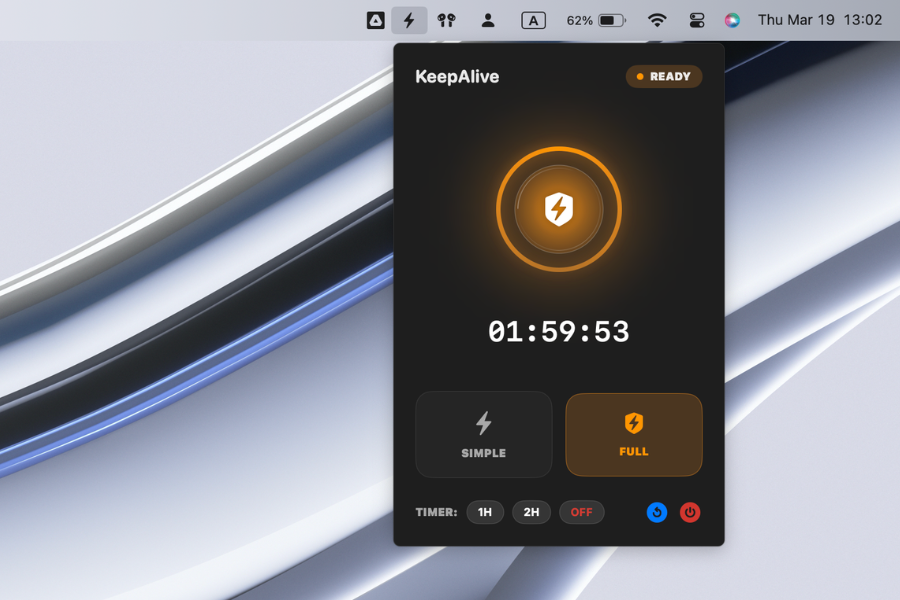
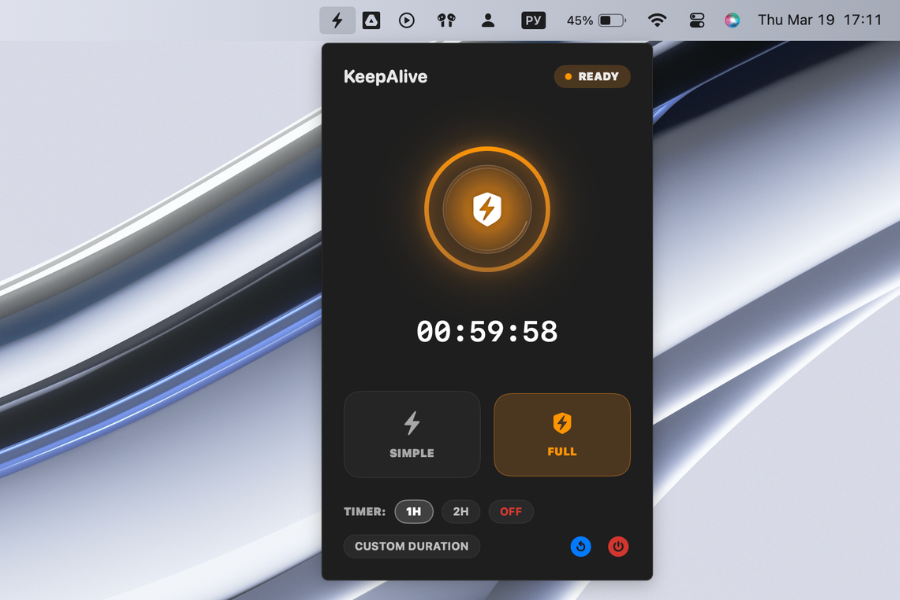
feat(ui): implement custom duration picker and refine layout
- Added expandable custom timer for precise control (H/M)
- Reorganized Timer and Power controls into a balanced 2-row layout
- Enhanced "SET" button with vibrant blue styling and active state glow
- Fixed "1H/2H" button text cropping by optimizing element spacing
- Modified KeepAliveManager to call pmset only when Full Mode is involved
- Updated README.md screenshots and fixed minor typos

Changed region(s): [[0.3422, 0.0, 0.8089, 0.99], [0.56, 0.0, 0.6533, 0.06], [0.9644, 0.03, 0.9956, 0.06]]

diff --git a/MenuView.swift b/MenuView.swift
@@ -4,14 +4,19 @@ struct MenuView: View {
     @ObservedObject var manager: KeepAliveManager
     @State private var isGlowing = false
     @State private var orbRotation = 0.0
+    @State private var showCustomPicker = false
+    @State private var customHours = 0
+    @State private var customMinutes = 0
     
     var body: some View {
         VStack(spacing: 0) {
-            // MARK: - Header
+            // ... (rest of header remains the same)
+            
+            // Header
             HStack {
                 Text("KeepAlive")
                     .font(.system(size: 16, weight: .bold, design: .rounded))
-                    .foregroundStyle(.white.opacity(0.9)) // Brighter header
+                    .foregroundStyle(.white.opacity(0.9))
                 Spacer()
                 statusBadge
             }
@@ -20,11 +25,12 @@ struct MenuView: View {
             
             Spacer(minLength: 30)
             
+            // ... (Orb area remains same)
             // MARK: - Central Status Orb & Timer
             ZStack {
                 // Background Glow
                 Circle()
-                    .fill(currentThemeColor.opacity(0.2)) // Slightly more glow
+                    .fill(currentThemeColor.opacity(0.2))
                     .frame(width: 140, height: 140)
                     .blur(radius: 20)
                     .scaleEffect(isGlowing ? 1.2 : 0.9)
@@ -32,7 +38,7 @@ struct MenuView: View {
                 // Outer Progress Ring (Timer)
                 if let remaining = manager.timerRemaining, let total = totalTimerDuration {
                     Circle()
-                        .stroke(.white.opacity(0.1), lineWidth: 4) // More visible track
+                        .stroke(.white.opacity(0.1), lineWidth: 4)
                         .frame(width: 110, height: 110)
                     
                     Circle()
@@ -90,12 +96,12 @@ struct MenuView: View {
             // MARK: - Digital Time Display
             if let remaining = manager.timerRemaining {
                 Text(formatDuration(remaining))
-                    .font(.system(size: 26, weight: .semibold, design: .monospaced)) // Bolder and larger
+                    .font(.system(size: 26, weight: .semibold, design: .monospaced))
                     .foregroundStyle(.white)
                     .padding(.top, 15)
             } else {
                 Text(manager.currentMode == .off ? "STANDBY" : "ACTIVE")
-                    .font(.system(size: 14, weight: .heavy, design: .monospaced)) // Heavier
+                    .font(.system(size: 14, weight: .heavy, design: .monospaced))
                     .foregroundStyle(currentThemeColor)
                     .padding(.top, 15)
                     .tracking(4)
@@ -125,48 +131,121 @@ struct MenuView: View {
             }
             .padding(.horizontal, 20)
             
+            // MARK: - Custom Timer Controls (Expandable)
+            if showCustomPicker {
+                HStack(spacing: 15) {
+                    CustomStepper(value: $customHours, range: 0...24, label: "hr")
+                    CustomStepper(value: $customMinutes, range: 0...59, label: "min")
+                    
+                    Button(action: {
+                        let totalSeconds = Double(customHours * 3600 + customMinutes * 60)
+                        if totalSeconds > 0 {
+                            manager.selectDuration(totalSeconds)
+                            withAnimation { showCustomPicker = false }
+                        } else {
+                            manager.selectDuration(nil)
+                        }
+                    }) {
+                        let isCurrent = manager.selectedDuration != nil && 
+                                      manager.selectedDuration == Double(customHours * 3600 + customMinutes * 60)
+                        
+                        Text("SET")
+                            .font(.system(size: 10, weight: .black))
+                            .padding(.vertical, 6)
+                            .padding(.horizontal, 12)
+                            .background(isCurrent ? Color.blue : Color.blue.opacity(0.6)) // Brighter background
+                            .clipShape(Capsule())
+                            .foregroundStyle(.white) // Pure white text
+                            .shadow(color: .blue.opacity(isCurrent ? 0.5 : 0), radius: 4)
+                            .overlay(
+                                Capsule()
+                                    .stroke(Color.white.opacity(isCurrent ? 0.8 : 0.3), lineWidth: 1)
+                            )
+                    }
+                    .buttonStyle(.plain)
+                }
+                .padding(.top, 15)
+                .transition(.move(edge: .top).combined(with: .opacity))
+            }
+            
             // MARK: - Timer Presets
-            HStack(spacing: 8) {
-                Text("TIMER:")
-                    .font(.system(size: 10, weight: .black)) // More prominent
-                    .foregroundStyle(.white.opacity(0.6))
-                
-                TimerActionChip(
-                    label: "1H", 
-                    isSelected: manager.selectedDuration == 3600
-                ) { manager.selectDuration(3600) }
-                
-                TimerActionChip(
-                    label: "2H", 
-                    isSelected: manager.selectedDuration == 7200
-                ) { manager.selectDuration(7200) }
-                
-                TimerActionChip(
-                    label: "OFF", 
-                    isDestructive: true,
-                    isSelected: manager.selectedDuration == nil
-                ) { manager.selectDuration(nil) }
-                
-                Spacer()
-                
-                Button(action: { manager.disableKeepAlive() }) {
-                    Image(systemName: "arrow.counterclockwise.circle.fill")
-                        .font(.system(size: 18, weight: .bold))
-                        .foregroundStyle(manager.currentMode == .off ? Color.white.opacity(0.2) : Color.blue)
+            VStack(alignment: .leading, spacing: 10) {
+                HStack(spacing: 8) {
+                    Text("TIMER:")
+                        .font(.system(size: 10, weight: .black))
+                        .foregroundStyle(.white.opacity(0.6))
+                    
+                    TimerActionChip(
+                        label: "1H", 
+                        isSelected: manager.selectedDuration == 3600 && !showCustomPicker
+                    ) { 
+                        showCustomPicker = false
+                        manager.selectDuration(3600) 
+                    }
+                    
+                    TimerActionChip(
+                        label: "2H", 
+                        isSelected: manager.selectedDuration == 7200 && !showCustomPicker
+                    ) { 
+                        showCustomPicker = false
+                        manager.selectDuration(7200) 
+                    }
+                    
+                    TimerActionChip(
+                        label: "OFF", 
+                        isDestructive: true,
+                        isSelected: manager.selectedDuration == nil && !showCustomPicker
+                    ) { 
+                        showCustomPicker = false
+                        manager.selectDuration(nil) 
+                    }
                 }
-                .buttonStyle(.plain)
-                .help("Restore defaults")
                 
-                Button(action: { 
-                    manager.disableKeepAlive() // Ensure we cleanup before quitting
-                    NSApplication.shared.terminate(nil) 
-                }) {
-                    Image(systemName: "power.circle.fill")
-                        .font(.system(size: 18, weight: .bold))
-                        .foregroundStyle(Color.red.opacity(0.8))
+                HStack {
+                    TimerActionChip(
+                        label: "CUSTOM DURATION",
+                        isSelected: showCustomPicker
+                    ) {
+                        withAnimation(.spring()) {
+                            showCustomPicker.toggle()
+                        }
+                    }
+                    
+                    if manager.timerRemaining != nil, showCustomPicker == false, 
+                       manager.selectedDuration != 3600, manager.selectedDuration != 7200, manager.selectedDuration != nil {
+                        Text("Active")
+                            .font(.system(size: 8, weight: .black))
+                            .foregroundStyle(.blue)
+                            .padding(.horizontal, 6)
+                            .padding(.vertical, 2)
+                            .background(.blue.opacity(0.2))
+                            .clipShape(Capsule())
+                    }
+                    
+                    Spacer()
+                    
+                    // Power buttons moved here for better balance
+                    HStack(spacing: 12) {
+                        Button(action: { manager.disableKeepAlive() }) {
+                            Image(systemName: "arrow.counterclockwise.circle.fill")
+                                .font(.system(size: 18, weight: .bold))
+                                .foregroundStyle(manager.currentMode == .off ? Color.white.opacity(0.2) : Color.blue)
+                        }
+                        .buttonStyle(.plain)
+                        .help("Restore defaults")
+                        
+                        Button(action: { 
+                            manager.disableKeepAlive()
+                            NSApplication.shared.terminate(nil) 
+                        }) {
+                            Image(systemName: "power.circle.fill")
+                                .font(.system(size: 18, weight: .bold))
+                                .foregroundStyle(Color.red.opacity(0.8))
+                        }
+                        .buttonStyle(.plain)
+                        .help("Quit KeepAlive")
+                    }
                 }
-                .buttonStyle(.plain)
-                .help("Quit KeepAlive")
             }
             .padding(20)
         }
@@ -318,5 +397,41 @@ struct VisualEffectView: NSViewRepresentable {
     func updateNSView(_ nsView: NSVisualEffectView, context: Context) {
         nsView.material = material
         nsView.blendingMode = blendingMode
+    }
+}
+
+// MARK: - Custom Stepper Support
+
+struct CustomStepper: View {
+    @Binding var value: Int
+    let range: ClosedRange<Int>
+    let label: String
+    
+    var body: some View {
+        HStack(spacing: 8) {
+            Button(action: { if value > range.lowerBound { value -= 1 } }) {
+                Image(systemName: "minus.circle.fill")
+                    .font(.system(size: 14))
+                    .foregroundStyle(.white.opacity(0.5))
+            }
+            .buttonStyle(.plain)
+            
+            VStack(spacing: 0) {
+                Text("\(value)")
+                    .font(.system(size: 14, weight: .black, design: .monospaced))
+                    .foregroundStyle(.white)
+                Text(label)
+                    .font(.system(size: 8, weight: .bold))
+                    .foregroundStyle(.white.opacity(0.4))
+            }
+            .frame(width: 25)
+            
+            Button(action: { if value < range.upperBound { value += 1 } }) {
+                Image(systemName: "plus.circle.fill")
+                    .font(.system(size: 14))
+                    .foregroundStyle(.white.opacity(0.5))
+            }
+            .buttonStyle(.plain)
+        }
     }
 }

diff --git a/README.md b/README.md
@@ -4,9 +4,9 @@ KeepAlive is a premium, high-performance macOS utility designed to prevent your 
 
 ## 📸 UI Preview
 
-| **Active Mode (FULL)** | **Standby Mode (OFF)** |
-|:---:|:---:|
-| ![KeepAlive Active](img/full.png) | ![KeepAlive Off](img/off.png) |
+| **Standby Mode (OFF)** | **Simple Mode (BLUE)** | **Full Mode (ORANGE)** |
+|:---:|:---:|:---:|
+| ![KeepAlive Off](img/off.png) | ![KeepAlive Simple](img/simple.png) | ![KeepAlive Full](img/full.png) |
 
 ## 🚀 Key Features
 
@@ -66,14 +66,10 @@ To start the app, run the compiled binary:
 2. Click the icon to open the KeepAlive control panel.
 3. Select **SIMPLE** for basic wakefulness or **FULL** for lid-sleep prevention.
 4. (Optional) Select a timer preset (1H, 2H) to auto-disable the mode.
-5. Click the **Restor Defaults** (power icon) to return to standard system behavior.
+5. Click the **Restore Defaults** (power icon) to return to standard system behavior.
 
 ## ⚠ Safety Warning
 
 **Full Mode** prevents the Mac from sleeping even when the lid is closed. 
 - Please ensure your MacBook has proper ventilation when using this mode to avoid heat buildup.
 - Do not keep the MacBook in a tight bag or sleeve while Full Mode is active.
-
-## 📄 License
-
-This project is provided "as is" for developer use and prototyping.
